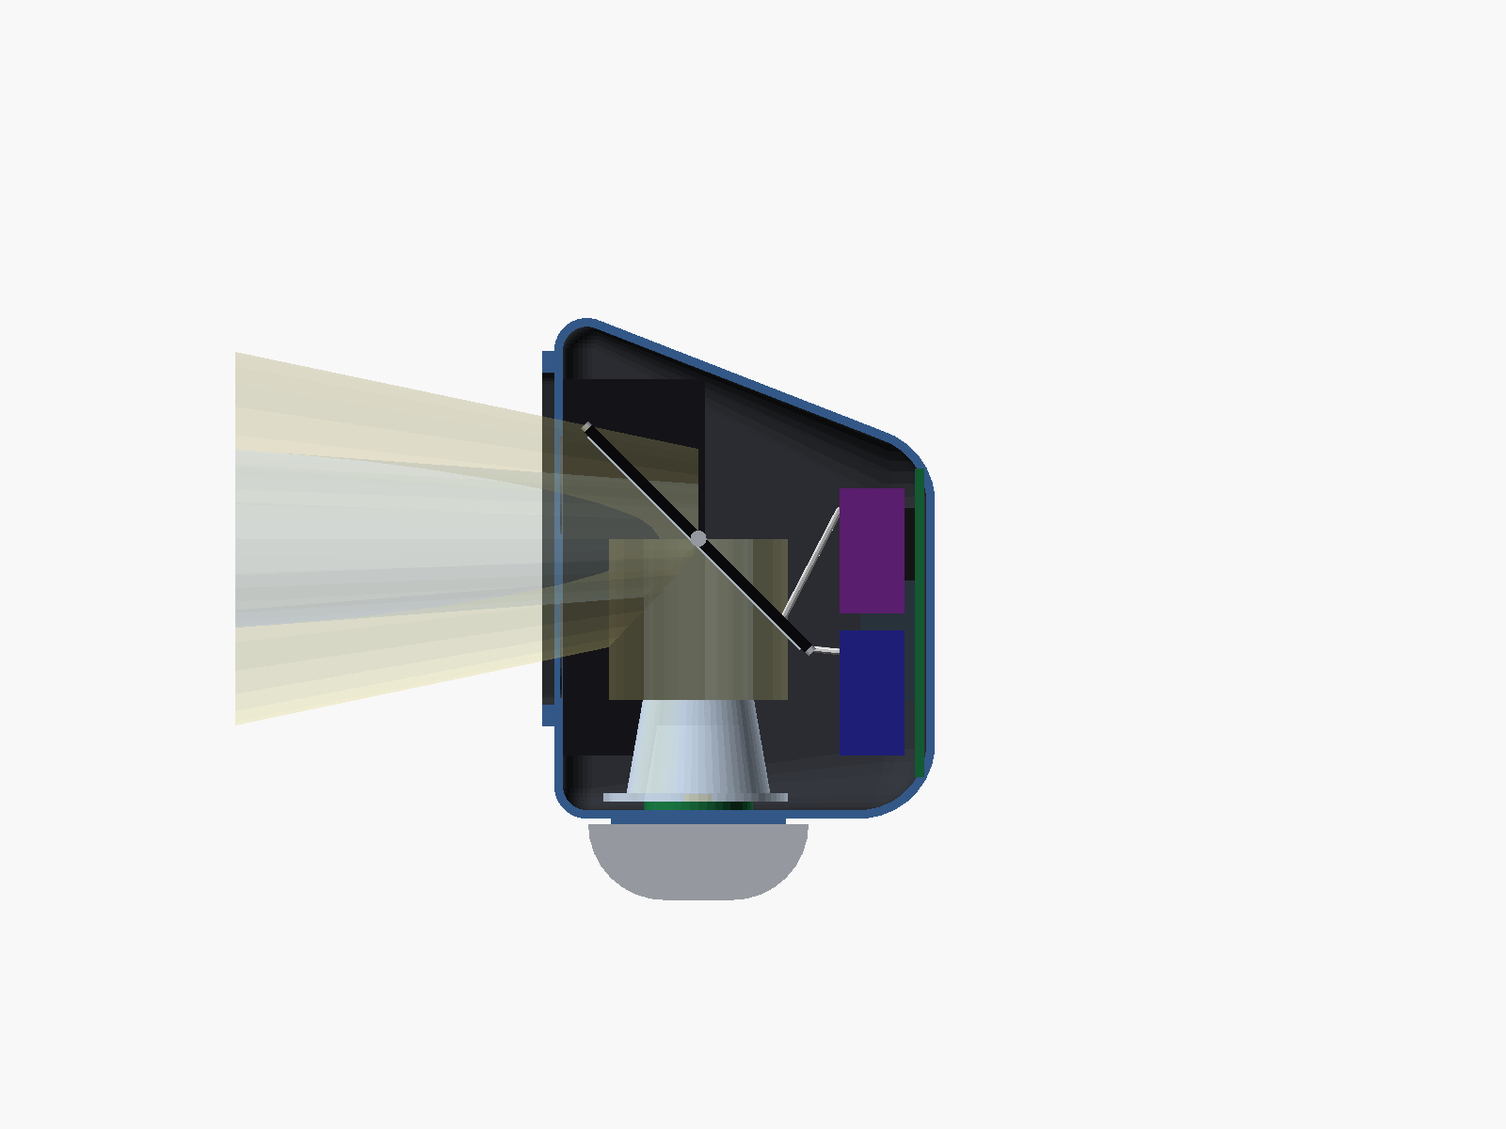
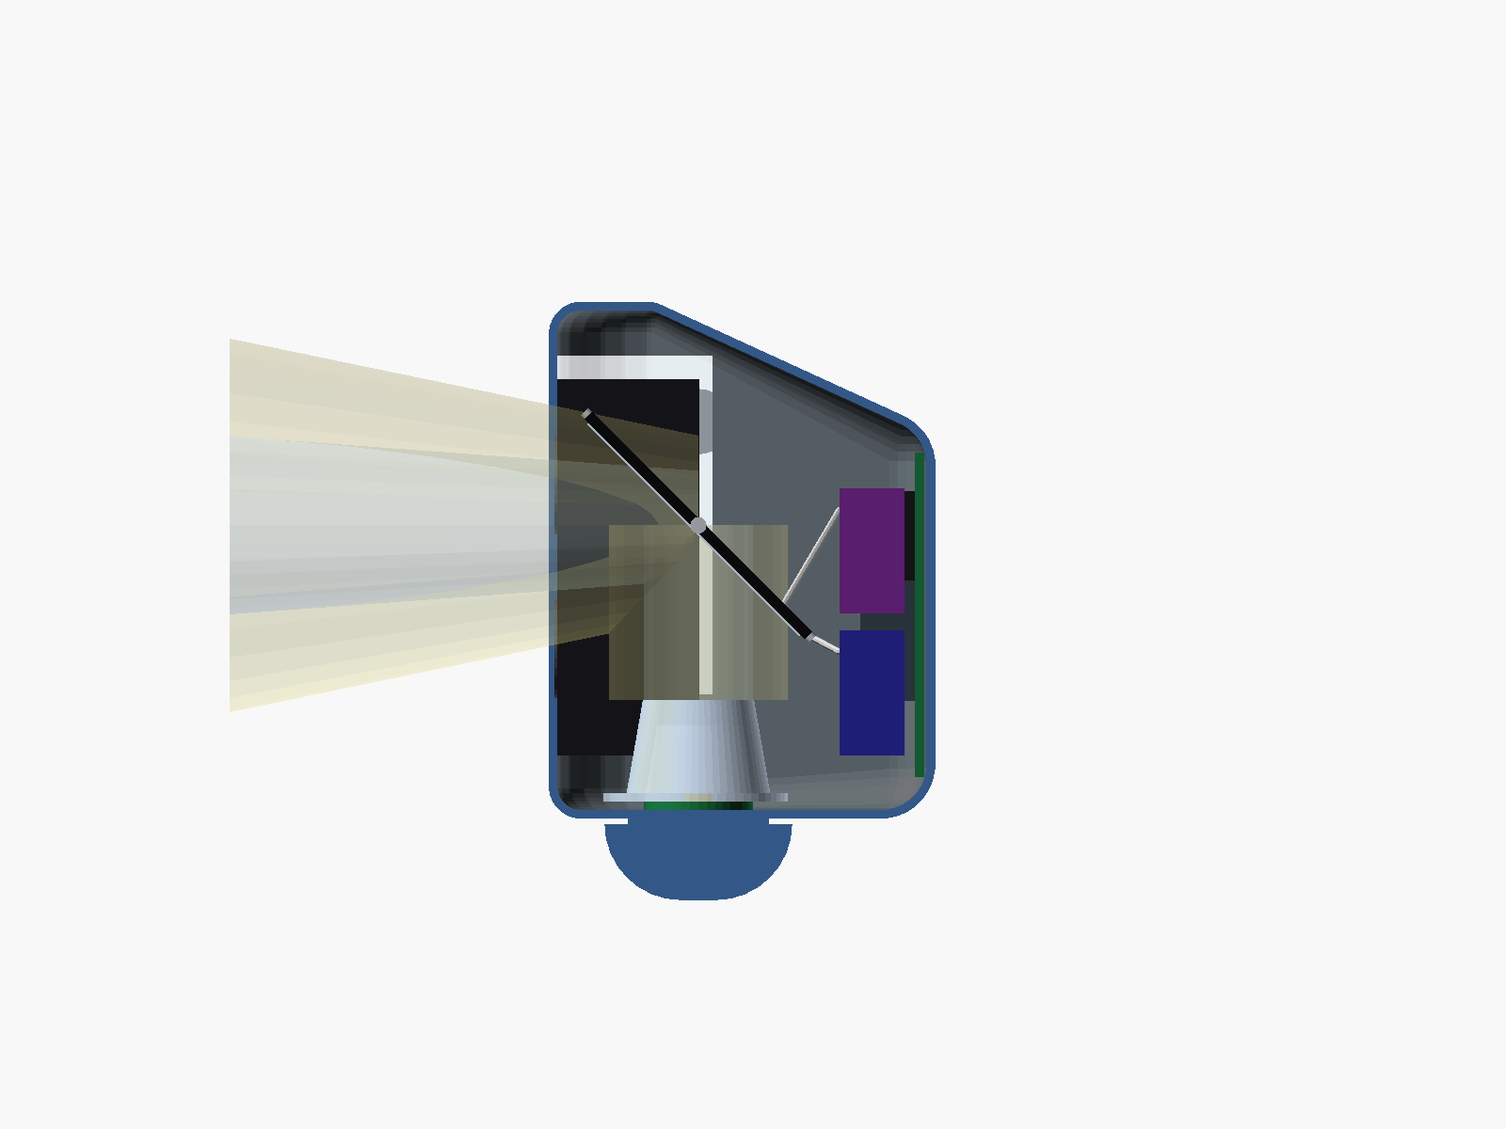
v4: curved sides only, fix the front-corner bug, one-beam turn renders
- headlight-v4.scad: the curved clear sides are the default and only v4
  version (flat front dropped, owner 2026-11-21). Fix body_pts: the wrap's
  front corners were placed for an 18 mm corner but drawn with 6 mm
  spheres, pulling the front face ~12 mm back so parts poked through.
  Corners are now an arc; 1 mm more front clearance. Per-side yaw
  (yaw_l, yaw_r) so turn renders swing only the turn-side beam.
- New check C-PKG-18 (cad/fit-v4.scad, run by render.sh): nothing inside
  pokes through the skin at any corner of the mirrors' travel. Passes.
- Full re-render: v4 now ~399 g with the lidar (was ~393 g measured on
  the faulty shell), 200.5 x 70.8 x 94.8 mm body.
- Site: headline mentions turns, concept-design notice with links to open
  issues, captions and images for the single v4 version. README, design,
  cad/README and test plan updated.

Changed region(s): [[0.125, 0.2467, 0.625, 0.8017]]

diff --git a/docs/index.html b/docs/index.html
@@ -4,7 +4,7 @@
 <meta charset="utf-8">
 <meta name="viewport" content="width=device-width, initial-scale=1, viewport-fit=cover">
 <title>EUC Stabilized Headlight</title>
-<meta name="description" content="An open-hardware, self-levelling headlight for electric unicycles: two servo-steered mirrors keep the beam on the road while the wheel pitches, and swing it into turns.">
+<meta name="description" content="An open-hardware, self-levelling headlight for electric unicycles: two servo-steered mirrors keep the beam on the road while the wheel pitches, and swing one beam into each turn.">
 <link rel="preconnect" href="https://fonts.googleapis.com">
 <link rel="stylesheet" href="https://fonts.googleapis.com/css2?family=Barlow+Condensed:wght@500;600;700&family=IBM+Plex+Sans:wght@400;500;600&family=IBM+Plex+Mono:wght@400;500&display=swap">
 <style>
@@ -140,6 +140,9 @@ ol.phases li.now { border-color: color-mix(in srgb, var(--beam) 45%, var(--line)
 .doc .path { font: 500 13px/1.2 var(--f-mono); color: var(--beam); }
 .doc p { margin: 6px 0 0; font-size: 14px; color: var(--muted); }
 
+.concept { display: grid; grid-template-columns: minmax(0, 1fr) auto; gap: 20px 32px; margin-bottom: 48px; padding: 22px 24px; border: 1px solid color-mix(in srgb, var(--right) 45%, var(--line)); border-radius: 10px; background: color-mix(in srgb, var(--right) 7%, var(--panel)); }
+.concept p { margin: 0; color: var(--muted); max-width: 70ch; }
+@media (max-width: 900px) { .concept { grid-template-columns: minmax(0, 1fr); } }
 footer { border-top: 1px solid var(--line); padding-block: 32px 48px; color: var(--muted); font-size: 14px; }
 footer p { margin: 0 0 8px; max-width: 80ch; }
 
@@ -173,19 +176,33 @@ footer p { margin: 0 0 8px; max-width: 80ch; }
 <header class="wrap hero" id="top">
   <div>
     <div class="eyebrow">Open hardware · GPL-3.0</div>
-    <h1>A headlight that <span class="lit">keeps its beam on the road</span></h1>
+    <h1>A headlight that <span class="lit">keeps its beam on the road</span> and looks into the turn</h1>
     <p class="lede">An electric unicycle pitches up to <b>10°</b> every time you accelerate or brake. This head steers its beams with <b>two small mirrors</b>, so the cutoff stays about <b>38 m ahead</b>, and swings one beam into each turn.</p>
     <div class="cta">
       <a class="btn primary" href="v4-ride-demo.html">Try the ride demo</a>
       <a class="btn" href="https://github.com/nijaba/euc-stabilized-headlight">Source on GitHub</a>
     </div>
-    <div class="status">Design phase: nothing built or tested yet. Every figure is an estimate.</div>
+    <div class="status">Concept design: nothing built or tested yet. Every figure is an estimate.</div>
   </div>
   <figure class="render" style="margin:0">
-    <img src="img/v4-wrap-three-quarter.png" alt="Packaging model of the head: a rounded light bar with a mirror module each side, the lidar in the middle and clear wraparound sides" width="1600" height="1200">
+    <img src="img/v4-three-quarter.png" alt="Packaging model of the head: a rounded light bar with a mirror module each side, the lidar in the middle and clear wraparound sides" width="1600" height="1200">
     <figcaption>Packaging model, layout v4 · OpenSCAD</figcaption>
   </figure>
 </header>
+
+<div class="wrap">
+  <aside class="concept" aria-label="Project status">
+    <div>
+      <div class="eyebrow" style="color:var(--right)">A concept, not a kit</div>
+      <h2 style="font-size:clamp(26px,3.4vw,34px);margin:8px 0 8px">Ideas welcome. Please don't build it yet.</h2>
+      <p>This is a concept design at the packaging-study stage: no prototype exists, the parts list hasn't been ordered, the firmware isn't written, and the numbers on this page come from datasheets and a CAD model. It will change. If you ride an EUC, know optics, servos or embedded firmware, or just see a better way, open an issue with your idea or doubt.</p>
+    </div>
+    <div class="cta" style="align-self:center">
+      <a class="btn primary" href="https://github.com/nijaba/euc-stabilized-headlight/issues/new">Suggest an idea</a>
+      <a class="btn" href="https://github.com/nijaba/euc-stabilized-headlight/issues">Browse issues</a>
+    </div>
+  </aside>
+</div>
 
 <section id="problem">
   <div class="wrap grid2" style="align-items:center">
@@ -273,12 +290,12 @@ footer p { margin: 0 0 8px; max-width: 80ch; }
     <h2>A rounded light bar, 200 mm wide</h2>
     <p class="intro">The packaging model checks that everything fits, sweeps and stays under the weight limit before any part is bought. Layout v4 was chosen on 2026-11-21 over a narrower single-mirror head (v3) with fixed cornering lights.</p>
     <div class="gallery">
-      <figure><div class="shot"><img src="img/v4-wrap-turning.png" alt="Model with both mirrors yawed outward" loading="lazy" width="1600" height="1200"></div><figcaption><b>Full outward swing.</b> Both mirrors at 25° to show the travel; in a turn only the turn-side one swings.</figcaption></figure>
-      <figure><div class="shot"><img src="img/v4-wrap-top.png" alt="Top view of the head with beams yawed" loading="lazy" width="1600" height="1200"></div><figcaption><b>From above.</b> Two modules, lidar bay between them, servos in the back slot; both beams at full outward swing.</figcaption></figure>
-      <figure><div class="shot"><img src="img/v4-cutaway.png" alt="Cut-away side view showing LED, optic, mirror and heatsink" loading="lazy" width="1600" height="1200"></div><figcaption><b>Cut-away.</b> LED facing up, optic, 45° mirror, heatsink floor (flat-front variant).</figcaption></figure>
-      <figure><div class="shot"><img src="img/v4-under.png" alt="Underside with two finned heatsinks" loading="lazy" width="1600" height="1200"></div><figcaption><b>Underneath.</b> Two aluminium heatsinks, fins fore-aft in the airflow (flat-front variant).</figcaption></figure>
-      <figure><div class="shot"><img src="img/v4-on-wheel.png" alt="The head mounted on a generic wheel for scale" loading="lazy" width="1600" height="1200"></div><figcaption><b>On a wheel.</b> Generic 16-inch shell, for scale (flat-front variant).</figcaption></figure>
-      <figure><div class="shot"><img src="img/v4-front.png" alt="Front view of the head" loading="lazy" width="1600" height="1200"></div><figcaption><b>Front.</b> Low beam outside, spot inside, on each side (flat-front variant).</figcaption></figure>
+      <figure><div class="shot"><img src="img/v4-turning.png" alt="Model in a left turn: the left beam swung outward, the right beam straight ahead" loading="lazy" width="1600" height="1200"></div><figcaption><b>Left turn.</b> The left beam swings 25° out through the clear side; the right one stays straight.</figcaption></figure>
+      <figure><div class="shot"><img src="img/v4-top.png" alt="Top view in a left turn: left beam swung out, right beam straight" loading="lazy" width="1600" height="1200"></div><figcaption><b>From above, left turn.</b> Two modules with the lidar bay between them and the servos in the back slot.</figcaption></figure>
+      <figure><div class="shot"><img src="img/v4-cutaway.png" alt="Cut-away side view showing LED, optic, mirror and heatsink" loading="lazy" width="1600" height="1200"></div><figcaption><b>Cut-away.</b> LED facing up, optic, 45° mirror, heatsink floor.</figcaption></figure>
+      <figure><div class="shot"><img src="img/v4-under.png" alt="Underside with two finned heatsinks" loading="lazy" width="1600" height="1200"></div><figcaption><b>Underneath.</b> Two aluminium heatsinks, fins fore-aft in the airflow.</figcaption></figure>
+      <figure><div class="shot"><img src="img/v4-on-wheel.png" alt="The head mounted on a generic wheel for scale" loading="lazy" width="1600" height="1200"></div><figcaption><b>On a wheel.</b> Generic 16-inch shell, for scale.</figcaption></figure>
+      <figure><div class="shot"><img src="img/v4-front.png" alt="Front view of the head" loading="lazy" width="1600" height="1200"></div><figcaption><b>Front.</b> Low beam outside, spot inside, behind one curved clear piece per side.</figcaption></figure>
     </div>
   </div>
 </section>
@@ -323,9 +340,9 @@ footer p { margin: 0 0 8px; max-width: 80ch; }
       <div class="panel budget">
         <h3>Limits, with the lidar fitted</h3>
         <div class="meter">
-          <div class="row"><span>Head weight</span><span>~393 / 400 g</span></div>
-          <div class="bar" role="img" aria-label="393 of 400 grams"><i style="width:98.25%"></i><b></b></div>
-          <small>Printed parts measured from the model; bought parts from datasheets.</small>
+          <div class="row"><span>Head weight</span><span>~399 / 400 g</span></div>
+          <div class="bar" role="img" aria-label="399 of 400 grams"><i style="width:99.75%"></i><b></b></div>
+          <small>Printed parts measured from the model; bought parts from datasheets. Only 1 g of margin: the custom PCB should win some back.</small>
         </div>
         <div class="meter">
           <div class="row"><span>Material cost per unit</span><span>~$440 / $450</span></div>
@@ -381,7 +398,7 @@ footer p { margin: 0 0 8px; max-width: 80ch; }
   <div class="wrap">
     <div class="eyebrow">Roadmap</div>
     <h2>Where the project stands</h2>
-    <p class="intro">Phases run in order, each with its tests. The packaging study is nearly done; next is ordering a bench kit and writing the firmware core, with the pure logic tested on a computer first.</p>
+    <p class="intro">Phases run in order, each with its tests. Nothing past the packaging study has started, so this is the best time to change the design: <a href="https://github.com/nijaba/euc-stabilized-headlight/issues/new">open an issue</a>. The packaging study is nearly done; next is ordering a bench kit and writing the firmware core, with the pure logic tested on a computer first.</p>
     <ol class="phases">
       <li><span class="ph">PHASE 0</span><span class="t">Project setup and budget</span><span class="prog"><span class="bar"><i style="width:100%"></i></span>6/6</span></li>
       <li class="now"><span class="ph">PHASE 1</span><span class="t">Packaging study<small>v4 chosen; renders to review</small></span><span class="prog"><span class="bar"><i style="width:90%"></i></span>9/10</span></li>
@@ -416,7 +433,7 @@ footer p { margin: 0 0 8px; max-width: 80ch; }
 
 <footer>
   <div class="wrap">
-    <p><b style="color:var(--fg);font-weight:500">An experimental project.</b> Nothing here has been built or tested yet. Ride with a backup light until it's proven, and check your country's lighting rules: aim the low beam so it doesn't dazzle other road users. The optional TF02-Pro is a Class 1 (eye-safe) laser device.</p>
+    <p><b style="color:var(--fg);font-weight:500">A concept design.</b> Nothing here has been built or tested yet, so it isn't ready to build; ideas and doubts are welcome as <a href="https://github.com/nijaba/euc-stabilized-headlight/issues">GitHub issues</a>. Ride with a backup light until it's proven, and check your country's lighting rules: aim the low beam so it doesn't dazzle other road users. The optional TF02-Pro is a Class 1 (eye-safe) laser device.</p>
     <p>Hardware and firmware under GPL-3.0. <a href="https://github.com/nijaba/euc-stabilized-headlight">github.com/nijaba/euc-stabilized-headlight</a></p>
   </div>
 </footer>

diff --git a/docs/design.md b/docs/design.md
@@ -212,9 +212,9 @@ Sources: [EUC forum: charging a laptop from a wheel](https://forum.electricunicy
 - **Interior:** printed matte black to kill stray light. A lighter colour outside reduces sun heating.
 - **Leak test:** submerge the empty housing with a tissue inside before any electronics go in.
 
-*v4 with clear wraparound sides (study, 2026-11-21, `wrap_sides = true`).* The owner's idea: on each side, **one thermoformed clear piece** runs from the lidar bay across the front, round an 18 mm-radius corner and 30 mm back along the side, so there's **no pillar** between front and side glass.
+*v4 with clear wraparound sides (2026-11-21, `wrap_sides = true`, now the model's default and the only v4 version: the flat front is dropped, owner, 2026-11-21).* The owner's idea: on each side, **one thermoformed clear piece** runs from the lidar bay across the front, round an 18 mm-radius corner and 30 mm back along the side, so there's **no pillar** between front and side glass.
 - **Why it helps:** the outward beam no longer has to leave through the flat front, so the head's width is set by the mirror modules instead of the beam. The outward swing can grow from ±15° to **±25°** (outward only; inward is still limited by the lidar bay).
-- **Model result:** about **200 × 70 × 96 mm** (v4 flat-front: 221 mm) and **~393 g** with the lidar, within the 400 g limit. To keep the heatsinks on the flat floor of the narrower body, the taper drops to 8 mm and the tail radius to 10 mm.
+- **Model result:** about **200 × 71 × 95 mm** body, 111 mm tall with the heatsink (v4 flat-front: 221 mm), and **~399 g** with the lidar, just within the 400 g limit. *(Corrected 2026-11-21: the first wrap model drew the front face ~12 mm too far back, so internal parts poked through the skin and the shell measured light at ~393 g. Fixed, with 1 mm more front clearance and a new skin check, C-PKG-18.)* To keep the heatsinks on the flat floor of the narrower body, the taper drops to 8 mm and the tail radius to 10 mm.
 - **Thermoforming the pieces:**
   - **Material:** UV-stabilised polycarbonate, 1.5 mm. PETG forms at 120–160 °C without drying and is easier, but it's less impact- and UV-resistant.
   - **Drying:** PC must be dried first (about 120 °C for several hours for 1.5 mm sheet) or it bubbles when heated.
@@ -398,7 +398,7 @@ Seven LEDC channels are used (four servos, two DIM, the ring LED) of the ESP32-S
 - [ ] P6KE27A clamps at ~37.5 V, above the BuckBlock's 32 V maximum. Low risk with a 20 V bank, but a lower-clamp TVS would cover it.
 - [x] Cost over the limit: about $290 core + $98 lidar ≈ $388, against a $350 ceiling. Resolved 2026-11-20: the owner raised the limit to $450, so no parts change.
 - [x] **The flood has no cutoff.** Resolved 2026-11-21: the owner chose two LEDiL FILIPPA-STVZO cutoff optics with XP-L HI as the low beam (§3). A shield or masked mirror edge was rejected because a TIR beam isn't an image, so blocking part of it only dims it without making a sharp edge.
-- [ ] **Head weight is close to the 400 g limit** (raised from 350 g, owner, 2026-11-21): ~393 g with the lidar for v4 with the clear wraparound sides (v3 was ~401 g). The custom PCB should add ~20 g of margin; the part masses are estimates until weighed (E-MNT-01).
+- [ ] **Head weight is close to the 400 g limit** (raised from 350 g, owner, 2026-11-21): ~399 g with the lidar for v4 with the clear wraparound sides, 1 g of margin (v3 was ~401 g). The custom PCB should add ~20 g of margin; the part masses are estimates until weighed (E-MNT-01).
 - [ ] Heatsink sized for moving air (§8): confirm the riding temperature and the parked derating on the bench (B-THM-01).
 - [ ] FILIPPA with XP-L HI: focus height, cutoff sharpness and cutoff orientation are not in LEDiL's data. Bench tests B-OPT-05 and B-OPT-06.
 - [ ] Larger mirror (115 × 55 mm, about 5× the moment of inertia): does the servo still settle in under 50 ms (B-MIR-01)?

diff --git a/CHANGELOG.md b/CHANGELOG.md
@@ -5,6 +5,7 @@ All notable changes to this project are listed here. The format follows [Keep a 
 ## [Unreleased]
 
 ### Added
+- Site and README say the project is a concept design and invite ideas as GitHub issues rather than builds.
 - GitHub Pages serves `docs/`, so the README's demo link opens the live page (`docs/.nojekyll` serves the files as they are).
 - Project site home page (`docs/index.html`): the problem, how it works, the embedded ride demo, renders, anticipated spec, limits, parts, safety rules, roadmap and links. Its renders live in `docs/img/`, refreshed by `cad/render.sh`.
 - Ride demo: low-beam and high-beam modes (the high beam adds the two spots), and the lidar fitted by default.
@@ -26,6 +27,7 @@ All notable changes to this project are listed here. The format follows [Keep a 
 - `CONTRIBUTING.md` and `SECURITY.md` (private reporting for safety faults as well as security issues).
 
 ### Changed
+- v4 model: the curved clear sides are now the only version (flat front dropped, owner 2026-11-21) and the default; `render.sh` renders only it. Per-side yaw (`yaw_l`, `yaw_r`) so the turn renders show only the turn-side beam swinging. Site headline mentions turns.
 - Layout v4 adopted (owner, 2026-11-21): two mirrors on 2-axis gimbals, four servos, clear wraparound sides, lidar in the body, no cornering lights. Design, firmware spec, build plan, CLAUDE.md, BOM (≈ $440 per unit with the lidar, ~393 g) and README updated; `render.sh` now gates on v4.
 - Hill follower (firmware-spec §2, adopted 2026-11-21): removes the pitch the measured acceleration explains, then follows with τ = 0.3 s instead of 4 s, freezing 0.3 s after hard acceleration or a jolt. Fixes the beam dropping while accelerating and lagging over crests. U-ROAD-01 and R-AIM-02 now require 1 s.
 - Weight limit raised from 350 g to 400 g with the lidar (owner, 2026-11-21). Layout v3: aerodynamic shape (tapered, sloping roof, soft tail, brow fairing) and lean package (1.6 mm walls, smaller heatsink, 1.5 mm window, 5 g servo, fewer screws, M8 gland); printed parts now measured from STL volumes; ~401 g. Design §2 explains the mirror's size.
@@ -35,5 +37,6 @@ All notable changes to this project are listed here. The format follows [Keep a 
 - design.md §4: power breakdown, input current per mode, lidar draw, and a 15 V 3 A bank recommendation; why wheel USB ports can't power the head, and the wheel 12 V rail and main-battery alternatives.
 
 ### Fixed
+- v4 model with the curved clear sides: the front face was drawn ~12 mm too far back (corner spheres placed for an 18 mm corner but sized 6 mm), so the mirrors, optics and lidar poked through the skin and the shell measured light. Corner now an arc, 1 mm more front clearance for the mirror at full tilt and swing, new check C-PKG-18 (`cad/fit-v4.scad`). Mass ~393 → ~399 g with the lidar (limit 400 g).
 - BOM: one thermistor instead of two, one fewer 10 k resistor, totals updated.
 - Design: the heatsink lid is finned aluminium, not die-cast.

diff --git a/README.md b/README.md
@@ -6,9 +6,9 @@ An EUC pitches nose-down when it accelerates and nose-up when it brakes, by up t
 
 **Project site:** [nijaba.github.io/euc-stabilized-headlight](https://nijaba.github.io/euc-stabilized-headlight/): the idea, the ride demo, renders, the anticipated spec and the roadmap on one page.
 
-> **Status: design phase.** Layout v4 was chosen on 2026-11-21. Nothing has been built or tested yet. All performance figures are estimates.
+> **Status: concept design.** Layout v4 was chosen on 2026-11-21. Nothing has been built or tested yet, all figures are estimates, and the design will change, so please don't start building from it. Ideas and doubts are welcome as [issues](https://github.com/nijaba/euc-stabilized-headlight/issues).
 
-![Packaging model of layout v4, three-quarter view, with the clear wraparound sides](cad/renders/v4-wrap-three-quarter.png)
+![Packaging model of layout v4, three-quarter view, with the clear wraparound sides](cad/renders/v4-three-quarter.png)
 
 **[v4 ride demo](https://nijaba.github.io/euc-stabilized-headlight/v4-ride-demo.html)** ([source](docs/v4-ride-demo.html)): an animated simulation of the firmware's levelling and turn steering. It runs through accelerating, braking, a hill crest and two turns, compared with a fixed light.
 
@@ -63,7 +63,7 @@ Top view of the head (layout v4, front at the top):
 | Low beam (cutoff) at 10 m | ~62 lux | ~81 lux |
 | Input power | ~21 W | ~30 W |
 | Runtime on a 20 Ah bank (~50 Wh usable at 15 V) | ~2.4 h | ~1.7 h |
-| Head weight (limit: 400 g with lidar) | ~393 g with lidar (packaging model, measured shell; see design §10) | |
+| Head weight (limit: 400 g with lidar) | ~399 g with lidar (packaging model, measured shell; 1 g of margin, see design §10) | |
 | Head size | ~200 × 70 × 111 mm, a rounded light bar | |
 | Material cost per unit (limit: $450 with lidar) | ~$440 with the lidar, + power bank (~$342 without the lidar) | |
 

diff --git a/cad/README.md b/cad/README.md
@@ -30,7 +30,7 @@ To explore, open `headlight.scad` in OpenSCAD and change `view` (`assembly`, `cu
 
 ## Layout v4 (adopted 2026-11-21)
 
-`headlight-v4.scad` models the alternative with two independent 2-axis mirror modules and the lidar on its side between them, with no cornering lights or brow. `render.sh` renders it as `renders/v4-*.png` and writes its mass to `renders/mass-v4.txt`; since v4 was adopted (2026-11-21), its C-PKG checks and the wrap variant's mass (`mass-v4-wrap.txt`) set the exit status, and v3's mass is reported only. Extra variables: `yaw` (−7.5 to 7.5), `yaw_max`, and `wrap_sides` (one clear front-and-side piece per side, with `yaw_out_max`, `r_wrap`, `wrap_side_min`). `render.sh` renders the wrap variant as `renders/v4-wrap-*.png` and writes `renders/mass-v4-wrap.txt`.
+`headlight-v4.scad` models the adopted layout: two independent 2-axis mirror modules, the lidar on its side between them, and one curved clear piece per side across the front and round the corner (`wrap_sides = true`, the default; the flat front was dropped on 2026-11-21). No cornering lights or brow. `render.sh` renders it as `renders/v4-*.png` and writes its mass to `renders/mass-v4.txt`; its C-PKG checks and mass set the exit status, and v3's mass is reported only. Extra variables: `yaw` (outward-positive), `yaw_l` and `yaw_r` to swing one side only (the turn renders swing the left one), `yaw_max`, `yaw_out_max`, `r_wrap`, `wrap_side_min`.
 
 ## Results (2026-11-21)
 

diff --git a/docs/test-plan.md b/docs/test-plan.md
@@ -165,6 +165,7 @@ Each check's message in `cad/headlight.scad` or `cad/weight.py` starts with its 
 | C-PKG-15 | v4 only: each module's beam clears the lidar bay at full inward yaw | Inner beam edge outside the bay | Pass (v4 study), 2026-11-21 |
 | C-PKG-16 | v4 only: the gimbal frames clear the lidar bay | No overlap | Pass (v4 study), 2026-11-21 |
 | C-PKG-17 | v4 with clear wrap: the clear side stops ahead of the servo slot | Wrap ends in front of the back slot | Pass (study), 2026-11-21 |
+| C-PKG-18 | v4: no internal part (optics, servos, electronics, lidar, mirrors at every corner of their pitch and yaw travel) pokes through the body's outer skin | Nothing left outside the skin (`cad/fit-v4.scad`) | Pass, 2026-11-21 |
 | C-MASS-01 | Head mass with the lidar, printed parts measured from the model's STL volumes, bought parts from datasheets | ≤ 400 g | See `cad/renders/checks.txt`; ~401 g in v3, 2026-11-21 |
 
 ## Bench tests (`B-`)
